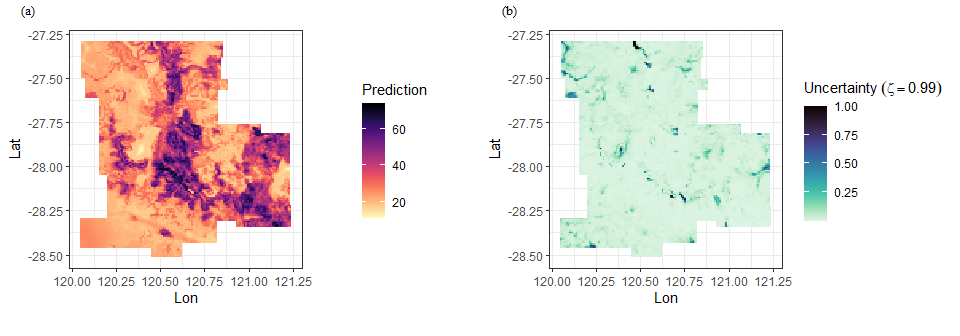
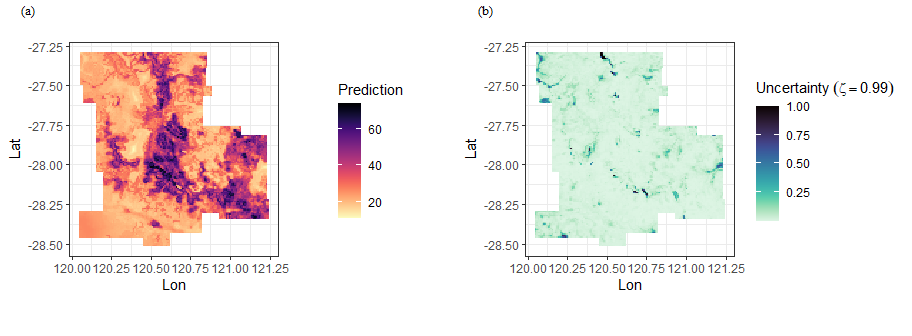
update gos content of readme and vignette

diff --git a/README.md b/README.md
@@ -37,24 +37,27 @@ system.time({
            data = zn, newdata = grid, kappa = 0.08,cores = 6)
 })
 ##    user  system elapsed 
-##    0.00    0.00    3.22
+##    0.04    0.02    3.14
 ```
 
 ``` r
+g1$pred = exp(g1$pred)
+grid$pred = g1$pred
+grid$uc99 = g1$`uncertainty99`
 g1
 ## # A tibble: 13,132 × 7
 ##     pred uncertainty90 uncertainty95 uncertainty99 uncertainty99.5
 ##    <dbl>         <dbl>         <dbl>         <dbl>           <dbl>
-##  1  3.08        0.0818        0.0523        0.0287         0.0243 
-##  2  3.11        0.0529        0.0356        0.0102         0.00954
-##  3  3.13        0.0693        0.0429        0.0224         0.0148 
-##  4  3.12        0.0665        0.0572        0.0140         0.00799
-##  5  3.09        0.0736        0.0460        0.0181         0.0139 
-##  6  3.07        0.0728        0.0480        0.0200         0.0169 
-##  7  3.14        0.0453        0.0345        0.0185         0.0178 
-##  8  3.21        0.0488        0.0434        0.0227         0.0118 
-##  9  3.22        0.0435        0.0432        0.0186         0.0103 
-## 10  3.20        0.0217        0.0217        0.0182         0.0141 
+##  1  21.8        0.0818        0.0523        0.0287         0.0243 
+##  2  22.5        0.0529        0.0356        0.0102         0.00954
+##  3  22.9        0.0693        0.0429        0.0224         0.0148 
+##  4  22.6        0.0665        0.0572        0.0140         0.00799
+##  5  21.9        0.0736        0.0460        0.0181         0.0139 
+##  6  21.5        0.0728        0.0480        0.0200         0.0169 
+##  7  23.2        0.0453        0.0345        0.0185         0.0178 
+##  8  24.8        0.0488        0.0434        0.0227         0.0118 
+##  9  25.0        0.0435        0.0432        0.0186         0.0103 
+## 10  24.5        0.0217        0.0217        0.0182         0.0141 
 ## # ℹ 13,122 more rows
 ## # ℹ 2 more variables: uncertainty99.9 <dbl>, uncertainty100 <dbl>
 ```
@@ -67,8 +70,6 @@ library(viridis)
 ```
 
 ``` r
-grid$pred = exp(g1$pred)
-grid$uc99 = g1$`uncertainty99`
 
 f1 = ggplot(grid, aes(x = Lon, y = Lat, fill = pred)) +
   geom_tile() +
